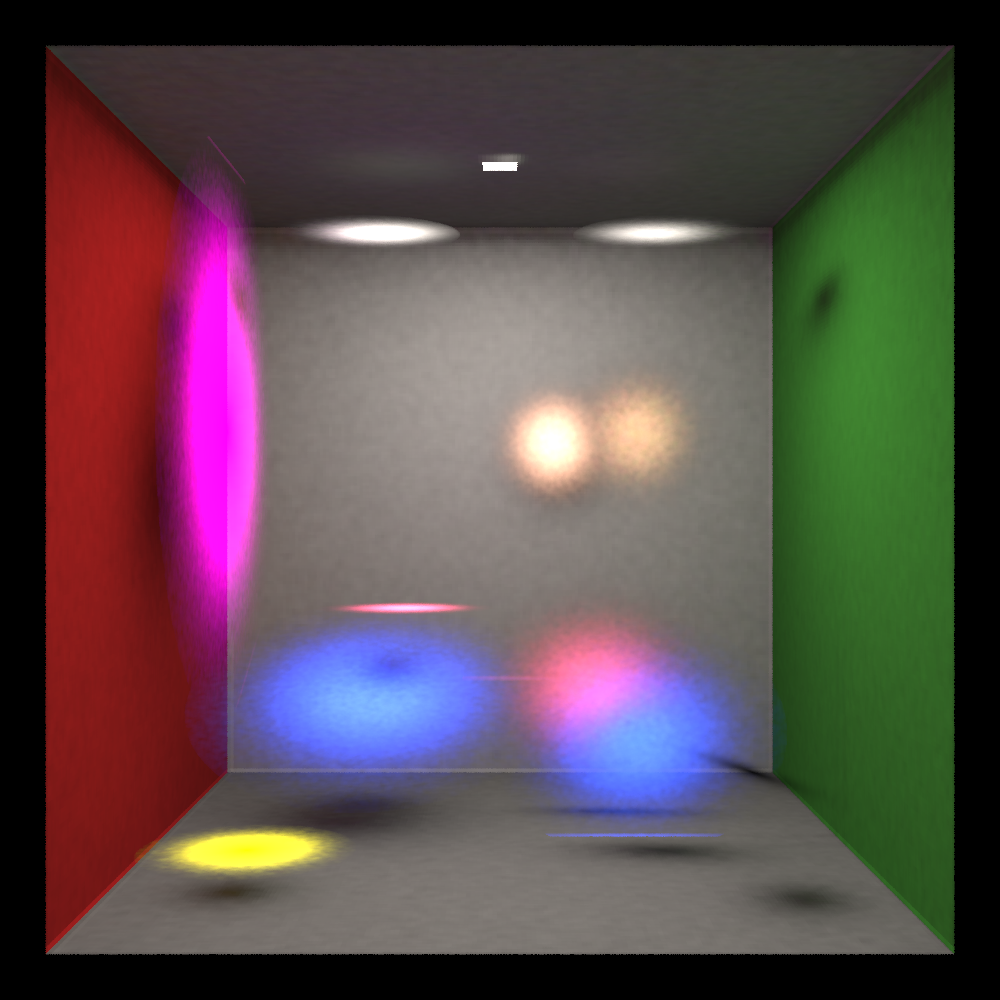
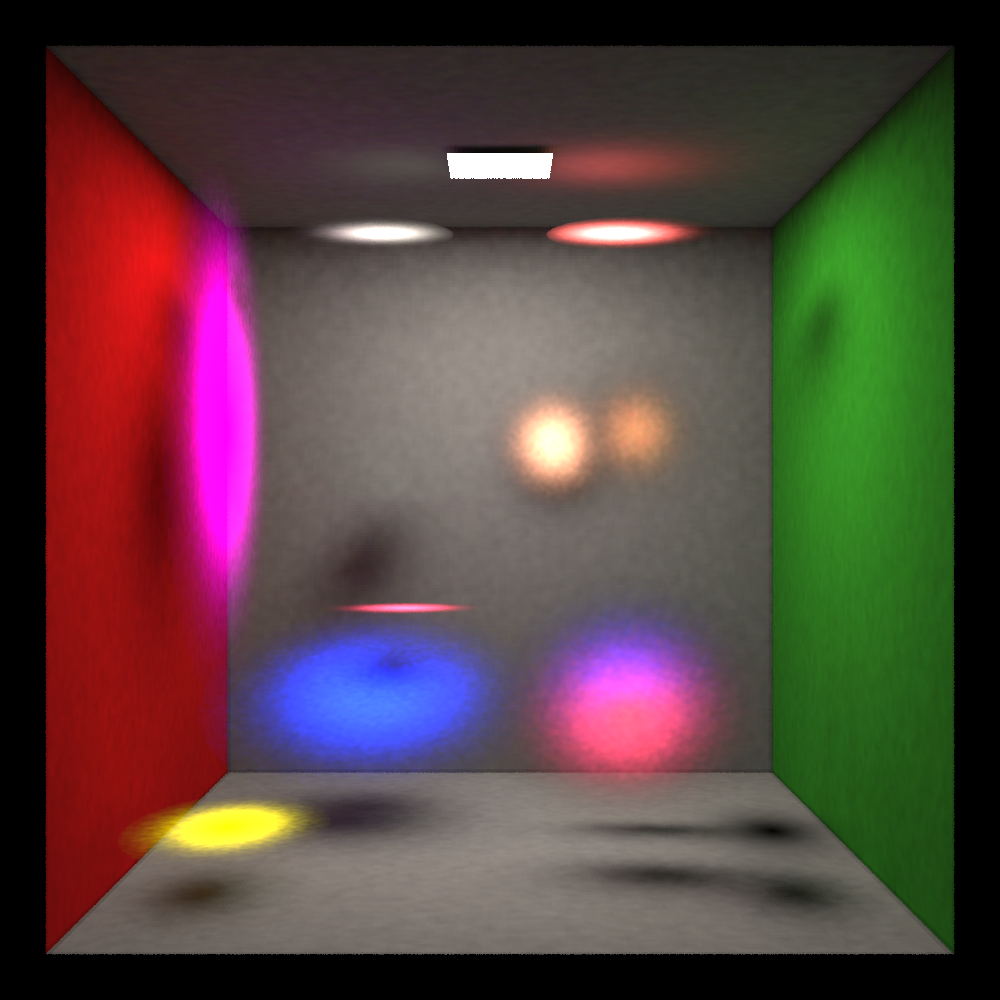
Added BTDF+BRDF to surfels

diff --git a/Pale/Renderer/Kernels/PrimalKernels.cpp b/Pale/Renderer/Kernels/PrimalKernels.cpp
@@ -228,31 +228,11 @@ namespace Pale {
                     const RayState rayState = raysIn[rayIndex];
                     if (!worldHit.hit) return;
 
-                    if (settings.rayGenMode == RayGenMode::Emitter) {
-                        auto &devicePtr = *intermediates.map.photonCountDevicePtr;
-                        sycl::atomic_ref<uint32_t,
-                                    sycl::memory_order::acq_rel,
-                                    sycl::memory_scope::device,
-                                    sycl::access::address_space::global_space>
-                                photonCounter(devicePtr);
-
-                        const uint32_t reservedSlot = photonCounter.fetch_add(1u);
-                        if (reservedSlot >= intermediates.map.photonCapacity) return;
-                        DevicePhotonSurface photonEntry{};
-                        photonEntry.position = worldHit.hitPositionW;
-                        photonEntry.power = rayState.pathThroughput;
-                        photonEntry.incidentDir = -rayState.ray.direction;
-                        const float signedCosineIncident = dot(worldHit.geometricNormalW, photonEntry.incidentDir);
-                        photonEntry.cosineIncident = sycl::fabs(signedCosineIncident);
-                        photonEntry.sideSign = signNonZero(signedCosineIncident);
-                        intermediates.map.photons[reservedSlot] = photonEntry;
-                    }
-
                     const InstanceRecord instance = scene.instances[worldHit.instanceIndex];
                     const float3 canonicalNormalW = worldHit.geometricNormalW;
                     const int travelSideSign = signNonZero(dot(canonicalNormalW, -rayState.ray.direction));
                     const float3 enteredSideNormalW = (travelSideSign >= 0) ? canonicalNormalW : (-canonicalNormalW);
-                    float3 sampledOutgoingDirectionW;
+                    float3 sampledOutgoingDirectionW{};
                     float3 throughputMultiplier = float3(1.0f);
 
                     // If we hit instance was a mesh do ordinary BRDF stuff.
@@ -278,7 +258,7 @@ namespace Pale {
                         const float transmitWeight = 0.5f * interactionAlpha; // ρ_t = α/2
 
                         // event probabilities
-                        const float probReflect = 1.5f; // a 50/50 if we reflect or transmit
+                        const float probReflect = reflectWeight / interactionAlpha; // a 50/50 if we reflect or transmit
                         const bool chooseReflect = (rng128.nextFloat() < probReflect);
                         if (chooseReflect) {
                             float sampledPdf = 0.0f;
@@ -286,8 +266,8 @@ namespace Pale {
                             sampleCosineHemisphere(rng128, enteredSideNormalW, sampledOutgoingDirectionW, sampledPdf);
                             sampledPdf = sycl::fmax(sampledPdf, 1e-6f);
                             const float cosTheta = sycl::fmax(0.0f, dot(sampledOutgoingDirectionW, enteredSideNormalW));
-                            const float3 f_r = float3(reflectWeight * M_1_PIf); // f_r = ρ_r/π
-                            throughputMultiplier = material.baseColor * throughputMultiplier * lambertBrdf *  (cosTheta / sampledPdf);
+                            throughputMultiplier =
+                                    material.baseColor * throughputMultiplier * lambertBrdf * (cosTheta / sampledPdf);
                         } else {
                             float sampledPdf = 0.0f;
                             // Diffuse transmit: cosine hemisphere on the opposite side
@@ -296,9 +276,32 @@ namespace Pale {
                             sampledPdf = sycl::fmax(sampledPdf, 1e-6f);
                             const float cosTheta =
                                     sycl::fmax(0.0f, dot(sampledOutgoingDirectionW, oppositeSideNormalW));
-                            const float3 f_t = float3(transmitWeight * M_1_PI); // f_t = ρ_t/π
-                            throughputMultiplier = material.baseColor * throughputMultiplier * lambertBrdf *  (cosTheta / sampledPdf);
+                            throughputMultiplier =
+                                    material.baseColor * throughputMultiplier * lambertBrdf * (cosTheta / sampledPdf);
                         }
+                    }
+
+                    if (settings.rayGenMode == RayGenMode::Emitter) {
+                        auto &devicePtr = *intermediates.map.photonCountDevicePtr;
+                        sycl::atomic_ref<uint32_t,
+                                    sycl::memory_order::acq_rel,
+                                    sycl::memory_scope::device,
+                                    sycl::access::address_space::global_space>
+                                photonCounter(devicePtr);
+
+                        const uint32_t reservedSlot = photonCounter.fetch_add(1u);
+                        if (reservedSlot >= intermediates.map.photonCapacity) return;
+                        DevicePhotonSurface photonEntry{};
+                        photonEntry.position = worldHit.hitPositionW;
+                        photonEntry.power = rayState.pathThroughput;
+                        photonEntry.incidentDir = -rayState.ray.direction;
+                        const float signedCosineIncident = dot(worldHit.geometricNormalW, photonEntry.incidentDir);
+                        photonEntry.cosineIncident = sycl::fabs(signedCosineIncident);
+                        photonEntry.sideSign = signNonZero(signedCosineIncident);
+                        photonEntry.primitiveIndex = instance.geometryType == GeometryType::Mesh
+                                                         ? worldHit.instanceIndex
+                                                         : worldHit.primitiveIndex;
+                        intermediates.map.photons[reservedSlot] = photonEntry;
                     }
 
                     // --- Spawn next ray with offset along *oriented* normal ---
@@ -381,26 +384,23 @@ namespace Pale {
 
                         if (worldHit.hit && splatEvent.t >= worldHit.t)
                             break;
+                        auto& surfel = scene.points[splatEvent.primitiveIndex];
 
                         bool useOneSidedScatter = true;
-                        float3 L_forward = estimateSurfelRadianceFromPhotonMap(
+                        float3 Efront = estimateSurfelRadianceFromPhotonMap(
                             splatEvent, ray.direction, scene, photonMap,
                             useOneSidedScatter);
-                        float3 L_back = estimateSurfelRadianceFromPhotonMap(
+                        float3 Eback = estimateSurfelRadianceFromPhotonMap(
                             splatEvent, -ray.direction, scene, photonMap,
                             useOneSidedScatter);
 
-                        float distanceToCamera = length(splatEvent.hitWorld - ray.origin);
-                        float cameraCos = sycl::fmax(0.f, dot(ray.normal, ray.direction)); // optional
-                        float volumeGeometric = (cameraCos) / (distanceToCamera * distanceToCamera);
-
                         const float3 diffuseAlbedo = scene.points[splatEvent.primitiveIndex].color;
-                        const float3 lambertBrdf = diffuseAlbedo * (1.0f / M_PIf);
+                        const float3 lambertBrdf = diffuseAlbedo * M_1_PIf;
 
-                        float reflectanceWeight = 0.7;
-                        float transmissionWeight = 1.0;
-                        float3 L = (L_forward * reflectanceWeight) + (L_back * transmissionWeight);
-                        Lsheet = Lsheet + L * splatEvent.alpha * tau * volumeGeometric * lambertBrdf;
+                        float reflectanceWeight = splatEvent.alpha * 0.5f; // 50% chance of reflectance
+                        float transmissionWeight = splatEvent.alpha * 0.5f; // 50% chance of transmission
+                        float3 L = (Efront * reflectanceWeight) + (Eback * transmissionWeight);
+                        Lsheet = Lsheet + L * tau * lambertBrdf;
 
                         tau *= (1.0f - splatEvent.alpha);
                     }
@@ -432,13 +432,12 @@ namespace Pale {
                             if (material.isEmissive()) {
                                 // Optionally evaluate Le(x, wo) from your material; shown as baseColor for brevity
                                 const float3 emittedLe = material.emissive * tau * geometricToCamera;
-                                const float3 reflectedL = estimateRadianceFromPhotonMap(worldHit, scene, photonMap) *
-                                                          tau * lambertBrdf * geometricToCamera;
+                                const float3 reflectedL =
+                                        estimateRadianceFromPhotonMap(worldHit, scene, photonMap) * tau * lambertBrdf;
                                 radianceRGB = radianceRGB + (emittedLe + reflectedL);
                             } else {
                                 const float3 L = estimateRadianceFromPhotonMap(worldHit, scene, photonMap);
-                                radianceRGB = radianceRGB + (L *
-                                                             tau * lambertBrdf * geometricToCamera);
+                                radianceRGB = radianceRGB + (L * tau * lambertBrdf);
                             }
                         }
                     }

diff --git a/Pale/Renderer/Kernels/KernelHelpers.h b/Pale/Renderer/Kernels/KernelHelpers.h
@@ -662,6 +662,8 @@ namespace Pale {
                          photonIndex != kInvalidIndex;
                          photonIndex = photonMap.photonNextIndexArray[photonIndex]) {
                         const DevicePhotonSurface photon = photonMap.photons[photonIndex];
+                        if (photon.primitiveIndex != worldHit.instanceIndex)
+                            continue;
 
                         const float3 displacement = photon.position - surfacePositionW;
                         const float distanceSquared = dot(displacement, displacement);
@@ -740,7 +742,8 @@ namespace Pale {
                          photonIndex != kInvalidIndex;
                          photonIndex = photonMap.photonNextIndexArray[photonIndex]) {
                         const DevicePhotonSurface photon = photonMap.photons[photonIndex];
-
+                        if (photon.primitiveIndex != event.primitiveIndex)
+                            continue;
                         // Hemisphere gate: accept only photons from the same side we enter first
                         const float nDotWi = dot(canonicalNormalW, photon.incidentDir);
                         if (sycl::fabs(nDotWi) < grazingEpsilon) continue; // ambiguous grazing

diff --git a/Pale/main.cpp b/Pale/main.cpp
@@ -329,8 +329,8 @@ int main(int argc, char **argv) {
         // // Save each sensor image
         auto rgba = Pale::downloadSensorRGBA(deviceSelector.getQueue(), sensor);
         const uint32_t W = sensor.width, H = sensor.height;
-        float gamma = 3.2f;
-        float exposure = 6.5f;
+        float gamma = 1.8f;
+        float exposure = 2.5f;
         std::filesystem::path filePath = "Output" / pointCloudPath.filename().replace_extension("") / "out.png";
         if (Pale::Utils::savePNGWithToneMap(
             filePath, rgba, W, H,
@@ -347,8 +347,8 @@ int main(int argc, char **argv) {
         // // Save each sensor image
         auto rgba = Pale::downloadSensorRGBA(deviceSelector.getQueue(), photonMapSensor);
         const uint32_t W = photonMapSensor.width, H = photonMapSensor.height;
-        float gamma = 3.2f;
-        float exposure = 8.5f;
+        float gamma = 2.4f;
+        float exposure = 4.0f;
         std::filesystem::path filePath = "Output" / pointCloudPath.filename().replace_extension("") / "out_photonmap.png";
         if (Pale::Utils::savePNGWithToneMap(
             filePath, rgba, W, H,

diff --git a/Pale/Core/DeviceSelector.cpp b/Pale/Core/DeviceSelector.cpp
@@ -16,7 +16,7 @@ namespace Pale {
             m_device = sycl::device(sycl::gpu_selector{});
         } catch (const sycl::exception& exception_object) {
             Log::PA_ERROR("Cannot select a GPU: {}", exception_object.what());
-            Log::PA_WARN("Falling back to CPU device");
+            Log::PA_WARN("Falling back to CPU device. Execution will be slow..");
             m_device = sycl::device(sycl::cpu_selector_v);
         }
 

diff --git a/Pale/Renderer/GPUDataStructures.h b/Pale/Renderer/GPUDataStructures.h
@@ -332,7 +332,8 @@ namespace Pale {
         float3 incidentDir{0.0f};
         // |n · ω_i| at the hit (used to convert flux→irradiance)
         float cosineIncident = 0.0f;
-        int    sideSign;       // +1 or -1: hemisphere relative to canonical surfel normal
+        int    sideSign{};       // +1 or -1: hemisphere relative to canonical surfel normal
+        uint32_t primitiveIndex = UINT32_MAX;
 
     };
 

diff --git a/Pale/Renderer/PathTracer.cpp b/Pale/Renderer/PathTracer.cpp
@@ -30,7 +30,7 @@ namespace Pale {
         m_settings.photonsPerLaunch = 1e6; // 1e6
         m_settings.maxBounces = 4;
         m_settings.numForwardPasses = 8;
-        m_settings.numGatherPasses = 8;
+        m_settings.numGatherPasses = 4;
         m_settings.maxAdjointBounces = 1;
         m_settings.adjointSamplesPerPixel = 1;
         // omp
